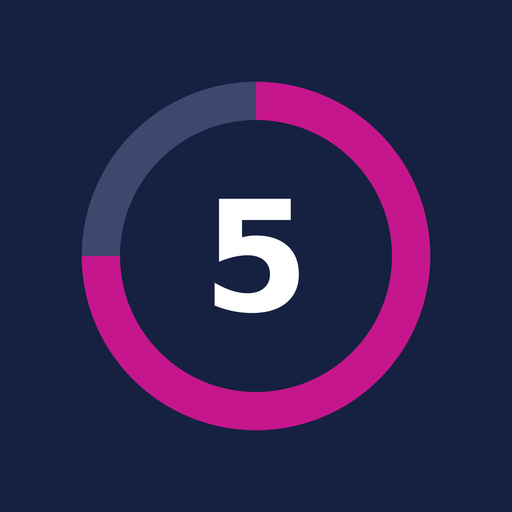
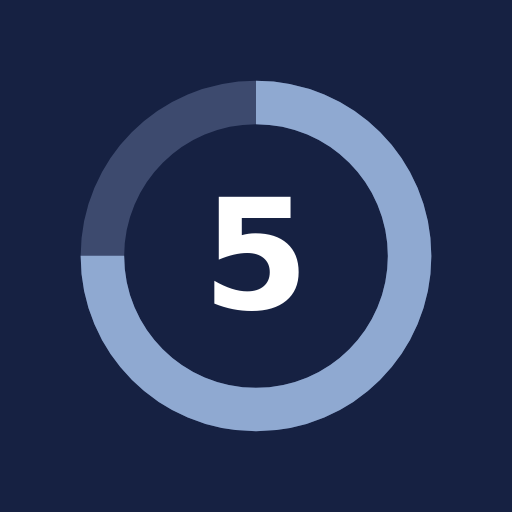
Switch colour theme from magenta to slate blue
Replace the magenta/purple/pink accents with a neutral slate palette
(steel blue accent on navy) in light and dark modes, and regenerate the
app icons accordingly.

diff --git a/static/index.html b/static/index.html
@@ -17,8 +17,8 @@
 <style>
 :root{
   --bg:#ebf0f7; --surface:#ffffff; --ink:#162142; --muted:#585a5e;
-  --line:rgba(168,172,178,.55); --accent:#c6168d; --accent-ink:#ffffff; --accent-text:#c6168d;
-  --deep:#4c1e58; --soft:#f7cae2; --hero-bg:#162142; --hero-ink:#ffffff; --hero-muted:#a8acb2;
+  --line:rgba(168,172,178,.55); --accent:#3b5b8c; --accent-ink:#ffffff; --accent-text:#3b5b8c;
+  --deep:#2c3e5c; --soft:#dde6f2; --hero-bg:#162142; --hero-ink:#ffffff; --hero-muted:#a8acb2;
   --font:"Montserrat",system-ui,-apple-system,"Segoe UI",Roboto,Arial,sans-serif;
   box-sizing:border-box;
   padding-top:env(safe-area-inset-top,0px);
@@ -27,12 +27,12 @@
 @media (prefers-color-scheme: dark){
   :root:not([data-theme="light"]){
     --bg:#0e1630; --surface:#162142; --ink:#ebf0f7; --muted:#a8acb2;
-    --line:rgba(168,172,178,.28); --accent-text:#f7cae2; --hero-bg:#4c1e58;
+    --line:rgba(168,172,178,.28); --accent-text:#8fa9d1; --deep:#3b5b8c; --hero-bg:#1d2b52;
   }
 }
 :root[data-theme="dark"]{
   --bg:#0e1630; --surface:#162142; --ink:#ebf0f7; --muted:#a8acb2;
-  --line:rgba(168,172,178,.28); --accent-text:#f7cae2; --hero-bg:#4c1e58;
+  --line:rgba(168,172,178,.28); --accent-text:#8fa9d1; --deep:#3b5b8c; --hero-bg:#1d2b52;
 }
 html{scroll-padding-top:env(safe-area-inset-top,0px);-webkit-text-size-adjust:100%}
 *,*::before,*::after{box-sizing:border-box}
